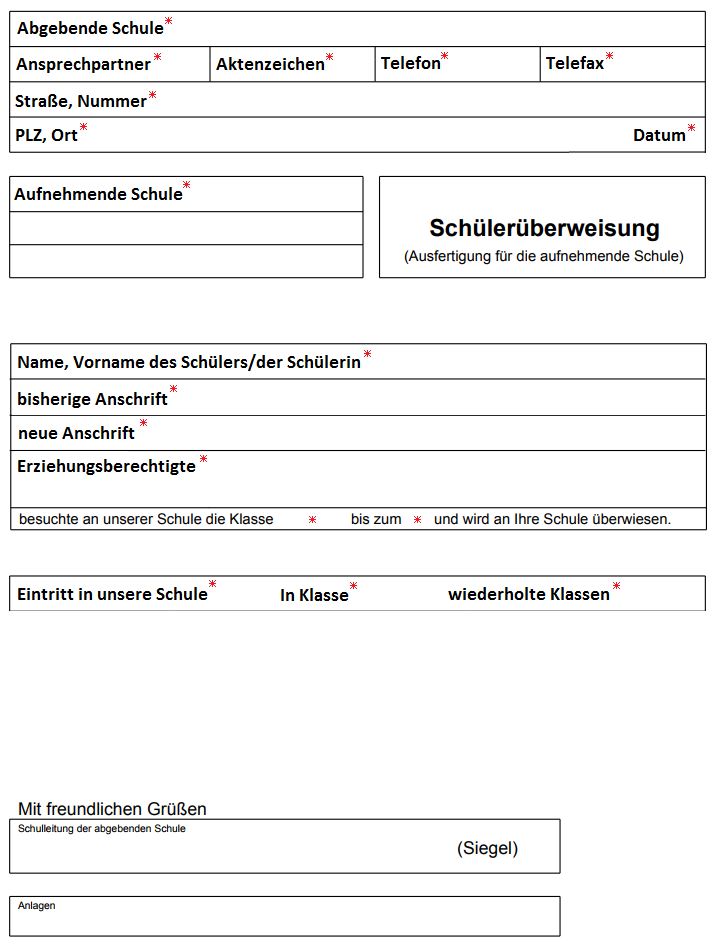
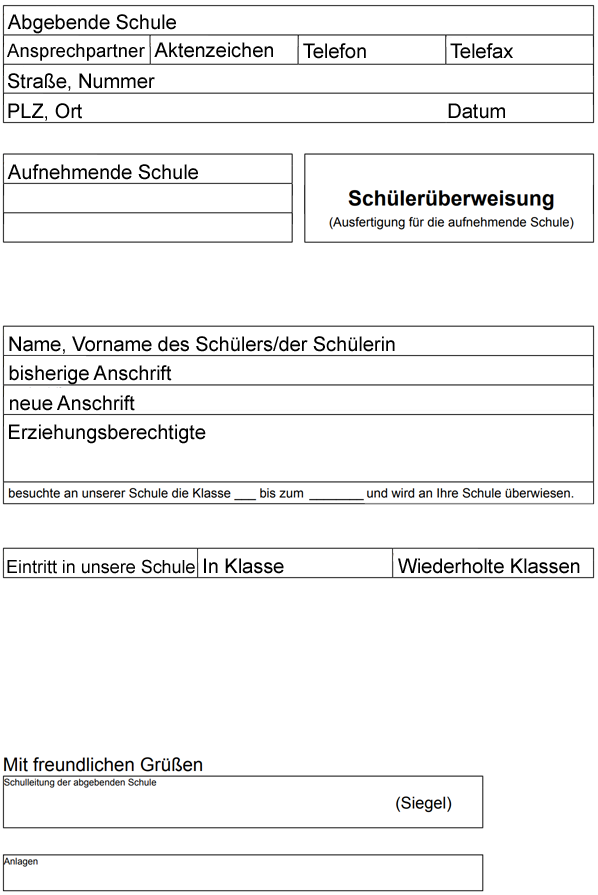
SSW-1709 Neues Dokument: Schülerüberweisung

diff --git a/Application/Document/Standard/StudentTransfer/StudentTransfer.php b/Application/Document/Standard/StudentTransfer/StudentTransfer.php
@@ -22,8 +22,8 @@ use SPHERE\Common\Frontend\Form\Structure\Form;
 use SPHERE\Common\Frontend\Form\Structure\FormColumn;
 use SPHERE\Common\Frontend\Form\Structure\FormGroup;
 use SPHERE\Common\Frontend\Form\Structure\FormRow;
-use SPHERE\Common\Frontend\Icon\Repository\Download;
 use SPHERE\Common\Frontend\IFrontendInterface;
+use SPHERE\Common\Frontend\Layout\Repository\Panel;
 use SPHERE\Common\Frontend\Layout\Repository\Thumbnail;
 use SPHERE\Common\Frontend\Layout\Repository\Title;
 use SPHERE\Common\Frontend\Layout\Repository\Well;
@@ -31,10 +31,10 @@ use SPHERE\Common\Frontend\Layout\Structure\Layout;
 use SPHERE\Common\Frontend\Layout\Structure\LayoutColumn;
 use SPHERE\Common\Frontend\Layout\Structure\LayoutGroup;
 use SPHERE\Common\Frontend\Layout\Structure\LayoutRow;
-use SPHERE\Common\Frontend\Link\Repository\External;
 use SPHERE\Common\Frontend\Link\Repository\Standard;
-use SPHERE\Common\Frontend\Message\Repository\Success;
 use SPHERE\Common\Frontend\Table\Structure\TableData;
+use SPHERE\Common\Frontend\Text\Repository\Danger;
+use SPHERE\Common\Frontend\Text\Repository\ToolTip;
 use SPHERE\Common\Main;
 use SPHERE\Common\Window\Navigation\Link;
 use SPHERE\Common\Window\Stage;
@@ -54,7 +54,7 @@ class StudentTransfer extends Extension
         ));
 
         Main::getDispatcher()->registerRoute(Main::getDispatcher()->createRoute(
-            __NAMESPACE__.'/Form', __CLASS__.'::frontendForm'
+            __NAMESPACE__.'/Fill', __CLASS__.'::frontendFillStudentTransfer'
         ));
     }
 
@@ -93,16 +93,26 @@ class StudentTransfer extends Extension
                         'Name'     => $tblPerson->getLastFirstName(),
                         'Address'  => $tblAddress ? $tblAddress->getGuiString() : '',
                         'Division' => Student::useService()->getDisplayCurrentDivisionListByPerson($tblPerson),
-                        'Option'   => new Standard('Ausfüllen', __NAMESPACE__.'/Form', null,
+                        'Option'   => new Standard('Erstellen', __NAMESPACE__.'/Fill', null,
                                 array('Id' => $tblPerson->getId()))
-                            .new External('Herunterladen',
-                                'SPHERE\Application\Api\Document\Standard\StudentTransfer\Create',
-                                new Download(), array('Data' => $Data),
-                                'Schulbescheinigung herunterladen')
+//                            .new External('Herunterladen',
+//                                'SPHERE\Application\Api\Document\Standard\StudentTransfer\Create',
+//                                new Download(), array('Data' => $Data),
+//                                'Schulbescheinigung herunterladen')
                     );
                 });
             }
         }
+
+        $YearString = '(SJ ';
+        $tblYearList = Term::useService()->getYearByNow();
+        if ($tblYearList) {
+            $YearString .= current($tblYearList)->getYear();
+        } else {
+            $YearString .= new ToolTip(new Danger((new \DateTime())->format('Y')),
+                'Kein Schuljahr mit aktuellem Zeitraum');
+        }
+        $YearString .= ')';
 
         $Stage->setContent(
             new Layout(array(
@@ -115,8 +125,14 @@ class StudentTransfer extends Extension
                                 array(
                                     'Name'     => 'Name',
                                     'Address'  => 'Adresse',
-                                    'Division' => 'Klasse',
+                                    'Division' => 'Klasse '.$YearString,
                                     'Option'   => ''
+                                ),
+                                array(
+                                    'columnDefs' => array(
+                                        array('type' => 'german-string', 'targets' => 0),
+                                        array('width' => '1%', 'targets' => -1),
+                                    ),
                                 )
                             )
                         )),
@@ -133,10 +149,10 @@ class StudentTransfer extends Extension
      *
      * @return Stage
      */
-    public function frontendForm($Id = null)
+    public function frontendFillStudentTransfer($Id = null)
     {
 
-        $Stage = new Stage('Form');
+        $Stage = new Stage('Schülerüberweisung', 'Erstellen');
         $tblPerson = Person::useService()->getPersonById($Id);
         $Global = $this->getGlobal();
         if ($tblPerson) {
@@ -209,7 +225,7 @@ class StudentTransfer extends Extension
                             foreach ($tblYearList as $tblYear) {
                                 $tblDivision = Division::useService()->getDivisionByPersonAndYear($tblPerson, $tblYear);
                                 if ($tblDivision && $tblDivision->getTblLevel()) {
-                                    $Global->POST['Data']['SchoolEntryDivision'] = $tblDivision->getTblLevel();
+                                    $Global->POST['Data']['SchoolEntryDivision'] = $tblDivision->getTblLevel()->getName();
                                 }
                             }
                         }
@@ -238,6 +254,7 @@ class StudentTransfer extends Extension
                                 : '')
                             .$tblPersonParent->getLastFirstName();
                     } else {
+                        // Linebrake without tabs is important! don't remove
                         $Global->POST['Data']['Custody'] .= '
 '.$tblPersonParent->getSalutation().' '.
                             ($tblPersonParent->getTitle()
@@ -283,29 +300,30 @@ class StudentTransfer extends Extension
         $Global->savePost();
 
         $form = $this->formStudentTransfer($Id);
-//        $form->appendFormButton(new \SPHERE\Common\Frontend\Form\Repository\Button\Standard('PDF Download'));
+
+        $HeadPanel = new Panel('Schüler', $tblPerson->getLastFirstName());
 
         $Stage->setContent(
             new Layout(
-                new LayoutGroup(
+                new LayoutGroup(array(
+                    new LayoutRow(
+                        new LayoutColumn(
+                            $HeadPanel
+                            , 7)
+                    ),
                     new LayoutRow(array(
                         new LayoutColumn(
-                            new Success($tblPerson->getLastFirstName())
-                            .$form
-//                            .$this->downloadStudentTransfer($form, $Data, $Id)
-//                            .ApiStudentTransfer::receiverService()
+                            $form
                             , 7),
                         new LayoutColumn(
-//                            new Info('</br></br></br></br></br></br></br></br></br></br></br></br></br></br></br></br>
-//                                    </br></br></br></br></br></br></br></br>'.new Center('Bild').'</br></br></br></br></br></br></br></br>
-//                                    </br></br></br></br></br></br></br></br></br></br></br></br></br></br></br></br>')
-                            new Thumbnail(
+                            new Title('Vorlage des Standard-Dokuments "Schülerüberweisung"')
+                            .new Thumbnail(
                                 FileSystem::getFileLoader('/Common/Style/Resource/Document/StudentTransfer.png')
                                 , ''
                             )
                             , 5),
                     ))
-                )
+                ))
             )
         );
 
@@ -475,24 +493,11 @@ class StudentTransfer extends Extension
 
                 new FormRow(array(
                     new FormColumn(
-                        ApiStudentTransfer::receiverService(ApiStudentTransfer::pipelineButtonRefresh($PersonId, false))
+                        ApiStudentTransfer::receiverService(ApiStudentTransfer::pipelineButtonRefresh($PersonId))
 //                        (new Standard('PDF erzeugen', ApiStudentTransfer::getEndpoint()))->ajaxPipelineOnClick(ApiStudentTransfer::pipelineDownload($PersonId))
                     )
                 ))
             ))
         );
     }
-
-//    public function downloadStudentTransfer(IFrontendInterface $form, $Data, $Id)
-//    {
-//        if ($Data != null) {
-////            $Redirect = new Redirect('SPHERE\Application\Api\Document\Standard\StudentTransfer\Create', 0, array(
-////                'Data' => $Data,
-////                'Id' => $Id,
-////            ));
-//            Debugger::screenDump($Data);
-//            return new Success('PDF wird generiert');
-//        }
-//        return $form;
-//    }
 }

diff --git a/Application/Api/Document/Standard/Repository/StudentTransfer/ApiStudentTransfer.php b/Application/Api/Document/Standard/Repository/StudentTransfer/ApiStudentTransfer.php
@@ -10,11 +10,8 @@ use SPHERE\Common\Frontend\Ajax\Pipeline;
 use SPHERE\Common\Frontend\Ajax\Receiver\BlockReceiver;
 use SPHERE\Common\Frontend\Icon\Repository\Download;
 use SPHERE\Common\Frontend\Layout\Repository\Container;
-use SPHERE\Common\Frontend\Layout\Repository\ProgressBar;
 use SPHERE\Common\Frontend\Link\Repository\External;
 use SPHERE\Common\Frontend\Link\Repository\Standard;
-use SPHERE\Common\Frontend\Text\Repository\Bold;
-use SPHERE\Common\Frontend\Text\Repository\Muted;
 use SPHERE\System\Extension\Extension;
 
 /**
@@ -34,8 +31,7 @@ class ApiStudentTransfer extends Extension implements IApiInterface
     public function exportApi($Method = '')
     {
         $Dispatcher = new Dispatcher(__CLASS__);
-        $Dispatcher->registerMethod('serviceButton');
-        $Dispatcher->registerMethod('serviceWait');
+        $Dispatcher->registerMethod('downloadButton');
 
         return $Dispatcher->callMethod($Method);
     }
@@ -51,39 +47,27 @@ class ApiStudentTransfer extends Extension implements IApiInterface
     }
 
     /**
-     * @param int  $PersonId
-     * @param bool $IsReady
+     * @param int $PersonId
      *
      * @return Pipeline
      */
-    public static function pipelineButtonRefresh($PersonId, $IsReady = false)
+    public static function pipelineButtonRefresh($PersonId)
     {
 
         $Pipeline = new Pipeline();
-        $Emitter = new ServerEmitter(self::receiverService(), self::getEndpoint());
 
-        // save POST for second Emitter
-        $Post = $_POST['Data'];
+        // POST Data in variable
+        $Data = $_POST['Data'];
         // add PersonId to Data
         $PersonIdArray = array('PersonId' => $PersonId);
-        $Post = array_merge($Post, $PersonIdArray);
-
-        if ($IsReady) {
-            $Emitter->setGetPayload(array(
-                self::API_TARGET => 'serviceWait'
-            ));
-            $Pipeline->appendEmitter($Emitter);
-        }
+        $Data = array_merge($Data, $PersonIdArray);
 
         $Emitter = new ServerEmitter(self::receiverService(), self::getEndpoint());
         $Emitter->setGetPayload(array(
-            self::API_TARGET => 'serviceButton',
-            'IsReady'        => $IsReady
+            self::API_TARGET => 'downloadButton'
         ));
         $Emitter->setPostPayload(array(
-            'IsReady'  => $IsReady,
-            'Data'     => $Post,
-            'PersonId' => $PersonId
+            'Data' => $Data,
         ));
 //        $Emitter->setLoadingMessage('Lädt');
         $Pipeline->appendEmitter($Emitter);
@@ -91,23 +75,11 @@ class ApiStudentTransfer extends Extension implements IApiInterface
     }
 
     /**
-     * @return string
-     */
-    public function serviceWait()
-    {
-        return new Bold(new Muted('Eingaben bestätigen')).
-            new Container(new ProgressBar(0, 100, 0, 10))
-            .new Container('&nbsp;');
-    }
-
-    /**
      * @param array $Data
-     * @param bool  $IsReady
-     * @param int   $PersonId
      *
      * @return External|Standard|string
      */
-    public function serviceButton($Data = array(), $IsReady = false, $PersonId)
+    public function downloadButton($Data = array())
     {
 
         return new External('Herunterladen',
@@ -115,21 +87,5 @@ class ApiStudentTransfer extends Extension implements IApiInterface
                 new Download(), array('Data' => $Data),
                 'Schulbescheinigung herunterladen')
             .new Container('&nbsp;');
-
-//        if ($IsReady == 'true') {
-//            return new External('Herunterladen',
-//                    'SPHERE\Application\Api\Document\Standard\StudentTransfer\Create',
-//                    new Download(), array('Data' => $Data),
-//                    'Schulbescheinigung herunterladen')
-//                .new Container('&nbsp;');
-//        } else {
-//            return (new Standard('Eingaben bestätigen',
-//                    ApiStudentTransfer::getEndpoint()))->ajaxPipelineOnClick(ApiStudentTransfer::pipelineButtonRefresh($PersonId,
-//                    true))
-//                .new Container('&nbsp;');
-//        }
-
-//        return new Code(print_r($Data, true));
-//        return new RedirectScript('/Api\/Document\/Standard\/StudentTransfer\/Create', false, array('Data' => $Data));
     }
 }

diff --git a/Application/Api/Document/Standard/Repository/StudentTransfer/StudentTransfer.php b/Application/Api/Document/Standard/Repository/StudentTransfer/StudentTransfer.php
@@ -50,7 +50,7 @@ class StudentTransfer extends AbstractDocument
 
         // PersonGender
         $this->FieldValue['Gender'] = '';
-        $this->FieldValue['PersonId'] = (isset($DataPost['PersonId']) && $DataPost['PersonId'] != '' ? $DataPost['PersonId'] : '');
+        $this->FieldValue['PersonId'] = (isset($DataPost['PersonId']) && $DataPost['PersonId'] != '' ? $DataPost['PersonId'] : false);
         if ($this->FieldValue['PersonId'] && ($tblPerson = Person::useService()->getPersonById($this->FieldValue['PersonId']))) {
             if (($tblCommon = Common::useService()->getCommonByPerson($tblPerson))) {
                 if (($tblCommonBirthDates = $tblCommon->getTblCommonBirthDates())) {
@@ -79,25 +79,13 @@ class StudentTransfer extends AbstractDocument
         $this->FieldValue['NewAddress'] = (isset($DataPost['NewAddress']) && $DataPost['NewAddress'] != '' ? $DataPost['NewAddress'] : '&nbsp;');
         $this->FieldValue['Custody'] = (isset($DataPost['Custody']) && $DataPost['Custody'] != '' ? $DataPost['Custody'] : '&nbsp;');
         $this->FieldValue['Division'] = (isset($DataPost['Division']) && $DataPost['Division'] != '' ? $DataPost['Division'] : '___');
-        $this->FieldValue['DateUntil'] = (isset($DataPost['DateUntil']) && $DataPost['DateUntil'] != '' ? $DataPost['DateUntil'] : '&nbsp;');
+        $this->FieldValue['DateUntil'] = (isset($DataPost['DateUntil']) && $DataPost['DateUntil'] != '' ? $DataPost['DateUntil'] : '__________');
         $this->FieldValue['SchoolEntry'] = (isset($DataPost['SchoolEntry']) && $DataPost['SchoolEntry'] != '' ? $DataPost['SchoolEntry'] : '&nbsp;');
         $this->FieldValue['SchoolEntryDivision'] = (isset($DataPost['SchoolEntryDivision']) && $DataPost['SchoolEntryDivision'] != '' ? $DataPost['SchoolEntryDivision'] : '&nbsp;');
         $this->FieldValue['DivisionRepeat'] = (isset($DataPost['DivisionRepeat']) && $DataPost['DivisionRepeat'] != '' ? $DataPost['DivisionRepeat'] : '&nbsp;');
 
         return $this;
     }
-
-//    /**
-//     * @return false|TblDivision
-//     */
-//    public function getTblDivision()
-//    {
-//        if (null === $this->tblDivision) {
-//            return false;
-//        } else {
-//            return $this->tblDivision;
-//        }
-//    }
 
     /**
      * @return string
@@ -636,7 +624,7 @@ class StudentTransfer extends AbstractDocument
             ->addSlice((new Slice())
                 ->addElement((new Element())
                     ->setContent('&nbsp;')
-                    ->styleHeight('200px')
+                    ->styleHeight('180px')
                 )
             )
             ->addSlice((new Slice())
